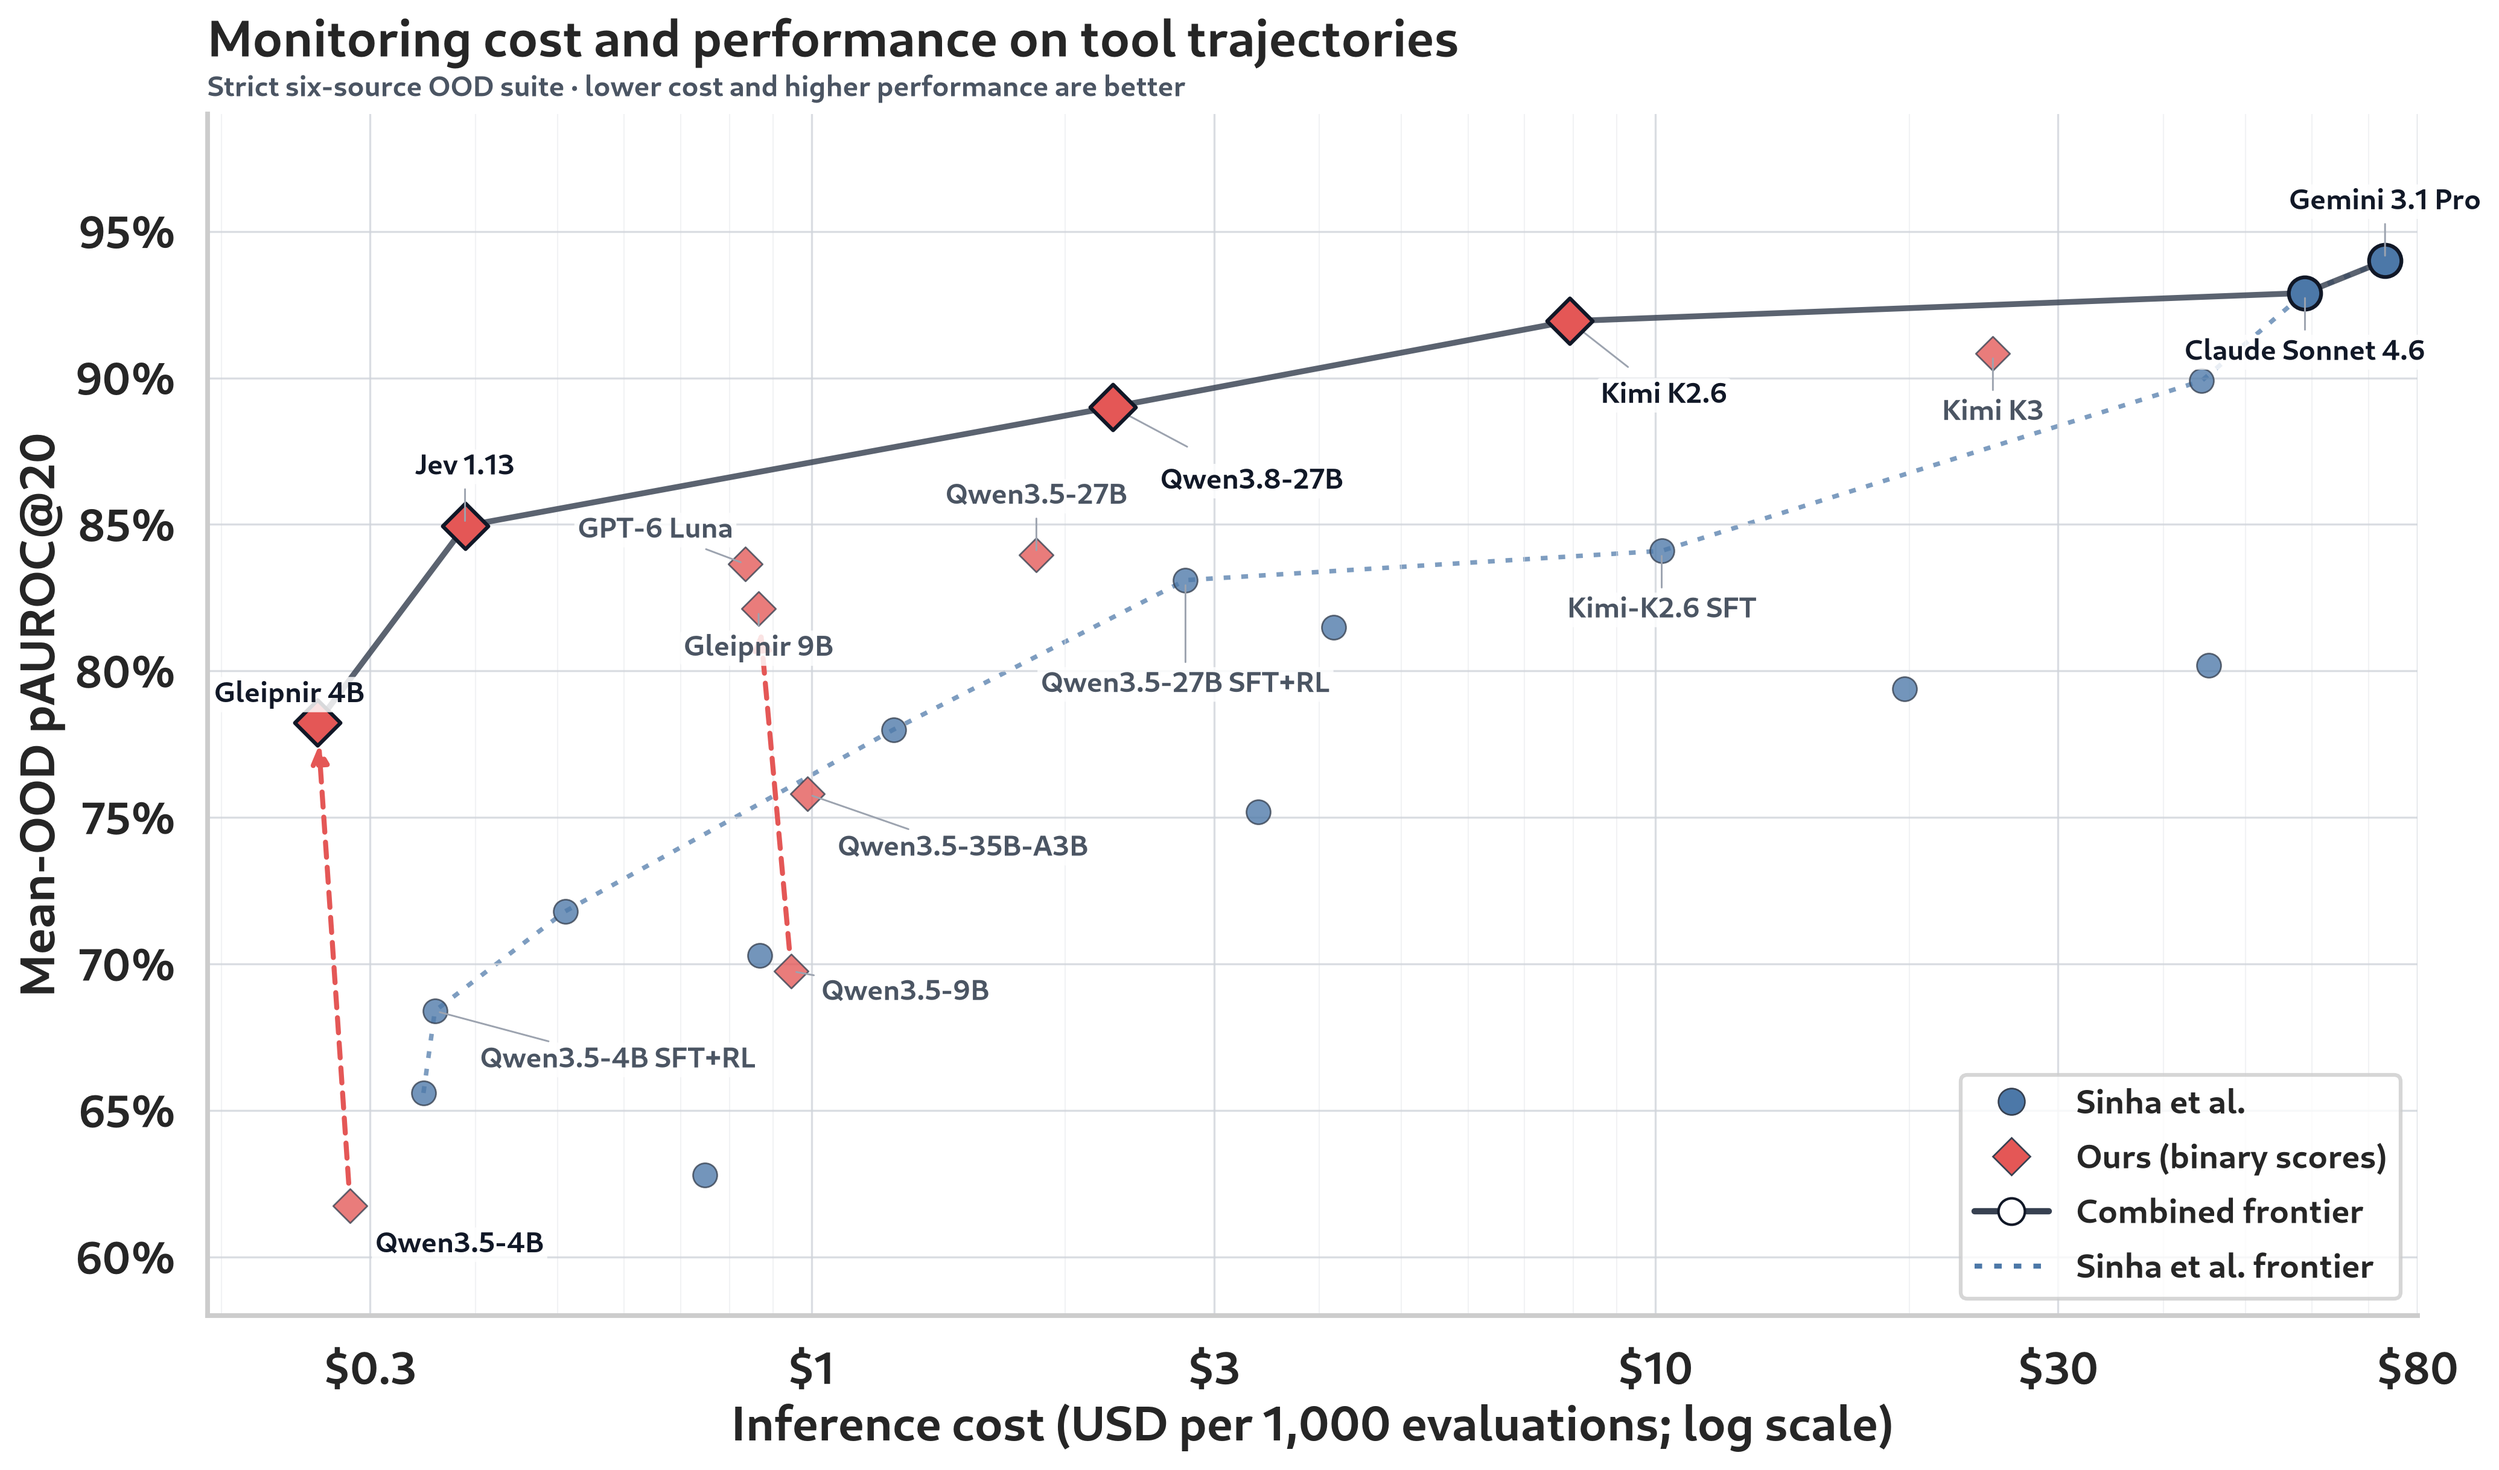
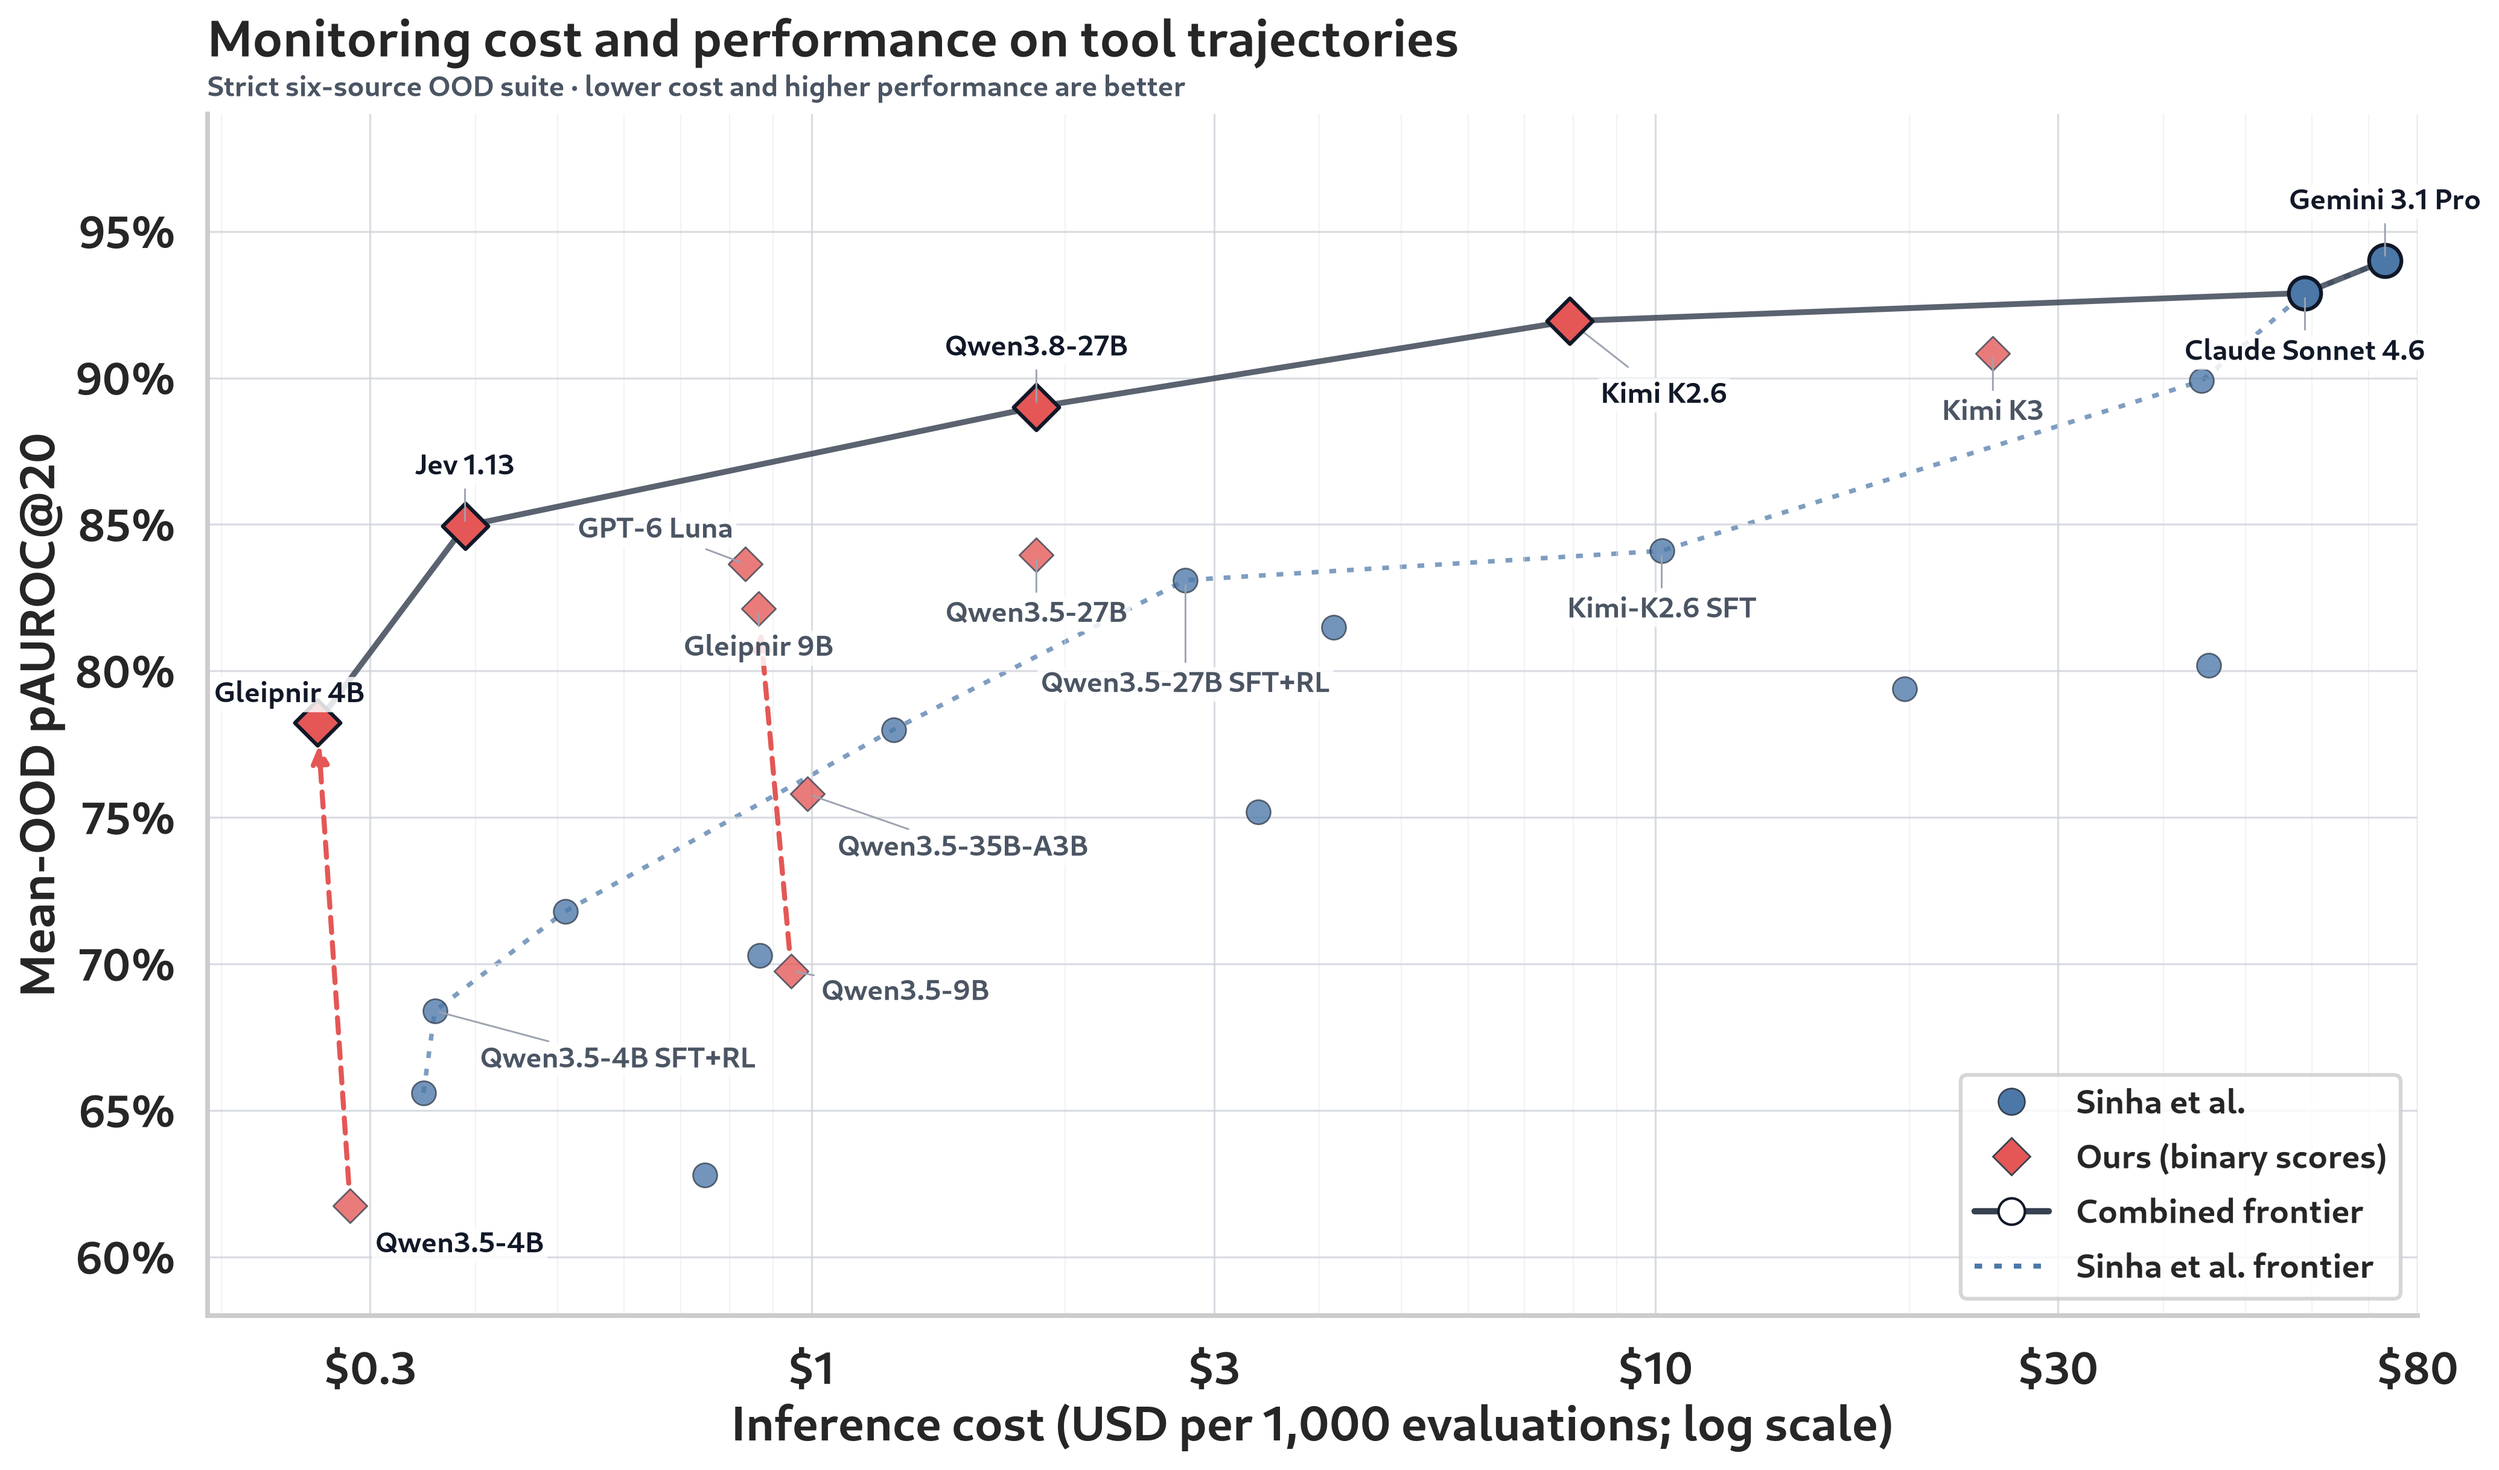
Price Qwen3.8-27B with the shared 27B proxy and separate the 27B labels

Changed region(s): [[0.2492, 0.2183, 0.5296, 0.343], [0.3738, 0.4054, 0.4673, 0.4366], [0.5296, 0.2183, 0.5919, 0.2495]]

diff --git a/scripts/plot_tool_trajectory_ood_frontier.py b/scripts/plot_tool_trajectory_ood_frontier.py
@@ -82,7 +82,8 @@ MANUAL_COMPARISON_LABELS = {
         "va": "top",
     },
     "Qwen3.5-4B SFT+RL": {"xytext": (18, -14), "ha": "left", "va": "top"},
-    "Qwen3.5-27B base": {"xytext": (0, 18), "ha": "center", "va": "bottom"},
+    "Qwen3.5-27B base": {"xytext": (0, -18), "ha": "center", "va": "top"},
+    "Qwen3.8-27B base": {"xytext": (0, 18), "ha": "center", "va": "bottom"},
     "Qwen3.5-27B SFT+RL": {"xytext": (0, -36), "ha": "center", "va": "top"},
     "Claude Sonnet 4.6 prompted": {
         "xytext": (0, -18),
@@ -185,6 +186,7 @@ def _display_label(monitor: str) -> str:
         "Gemini 3.1 Pro prompted": "Gemini 3.1 Pro",
         "Claude Opus 4.6 prompted": "Claude Opus 4.6",
         "Qwen3.5-27B base": "Qwen3.5-27B",
+        "Qwen3.8-27B base": "Qwen3.8-27B",
         "Qwen3.5-35B-A3B base (mixed providers)": "Qwen3.5-35B-A3B",
         **GLEIPNIR_METHODS,
     }

diff --git a/docs/research/tool_trajectory_ood_frontier.md b/docs/research/tool_trajectory_ood_frontier.md
@@ -76,7 +76,7 @@ and at least as accurate, with one strict improvement.
 | **Gleipnir** | **Qwen3.5-9B base (reasoned ordinal)** | **Full severity specification, visible analysis then 0--10 integer** | **1.0293** | **0.6656** | **no** |
 | Paper | Nemotron-120B SFT | Trained, short prompt, generated rationale + 0--10 score | 1.251 | 0.780 | no |
 | **Gleipnir** | **Qwen3.5-27B base** | **Full binary specification, immediate `0\|1` logits** | **1.8476** | **0.8395** | **no** |
-| **Gleipnir** | **Qwen3.8-27B base** | **Full binary specification, immediate `0\|1` logits** | **2.2742** | **0.8901** | **yes** |
+| **Gleipnir** | **Qwen3.8-27B base** | **Full binary specification, immediate `0\|1` logits** | **1.8476** | **0.8901** | **yes** |
 | Paper | Qwen3.5-27B SFT+RL | Trained, short prompt, generated rationale + 0--10 score | 2.775 | 0.831 | no |
 | Paper | GPT-5.4 nano prompted | Full specification, generated rationale + 0--10 score | 3.387 | 0.752 | no |
 | Paper | Gemini 3.1 Flash-Lite prompted | Full specification, generated rationale + 0--10 score | 4.157 | 0.815 | no |
@@ -276,16 +276,18 @@ Qwen3.5-27B full-teacher-prompt contract
 byte-identically to Qwen3.5-27B, so the mean input is the same
 9,466.7113 tokens plus one output token.
 
-Cost uses OpenRouter's `qwen/qwen3.8-27b` list price on 2026-10-17
-(`$0.24/M` input, `$2.20/M` output, from the models API): `$2.2720/1K` input
-plus `$0.0022/1K` output gives `$2.2742/1K`. The Qwen3.5-27B row keeps its
-historical paper proxy; OpenRouter now lists that model at `$0.26/M` input, so
-the two 27B costs come from different price sources.
+Qwen3.8-27B has the same architecture and parameter count as Qwen3.5-27B
+(`Qwen3_5ForConditionalGeneration`, 27.78B), so its cost uses the same paper
+hosted proxy (`$0.195/M` input, `$1.56/M` output): `$1.8476/1K`. The two 27B
+points therefore differ only in quality. For reference, OpenRouter listed
+`qwen/qwen3.8-27b` at `$0.24/M` input and `$2.20/M` output on 2026-10-17, which
+would give `$2.2742/1K`.
 
 The point is new frontier: Jev 1.13 is the best cheaper row (`0.8495`), and the
 next higher-quality frontier point is Kimi K2.6 (`0.9194` at `$7.9110/1K`). It
-dominates none of the previous frontier points. Qwen3.8 is `0.0506` above
-Qwen3.5-27B and `0.0183` below Kimi K3 at about 1/11 of Kimi K3's cost.
+dominates none of the previous frontier points; at equal cost it is `0.0506`
+above Qwen3.5-27B. It is `0.0183` below Kimi K3 at about 1/14 of Kimi K3's
+cost.
 
 ## Qwen3.5-9B immediate ordinal result
 
